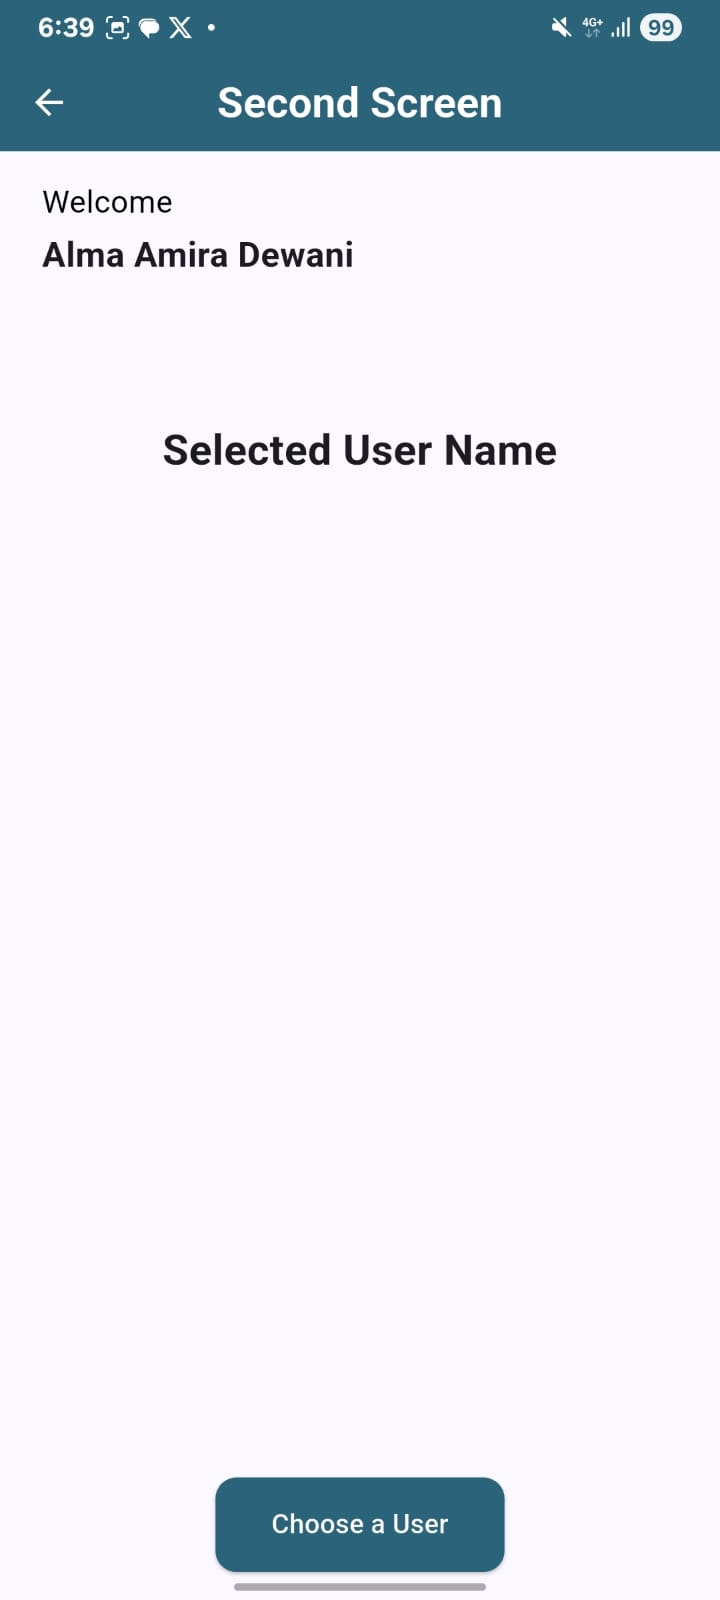
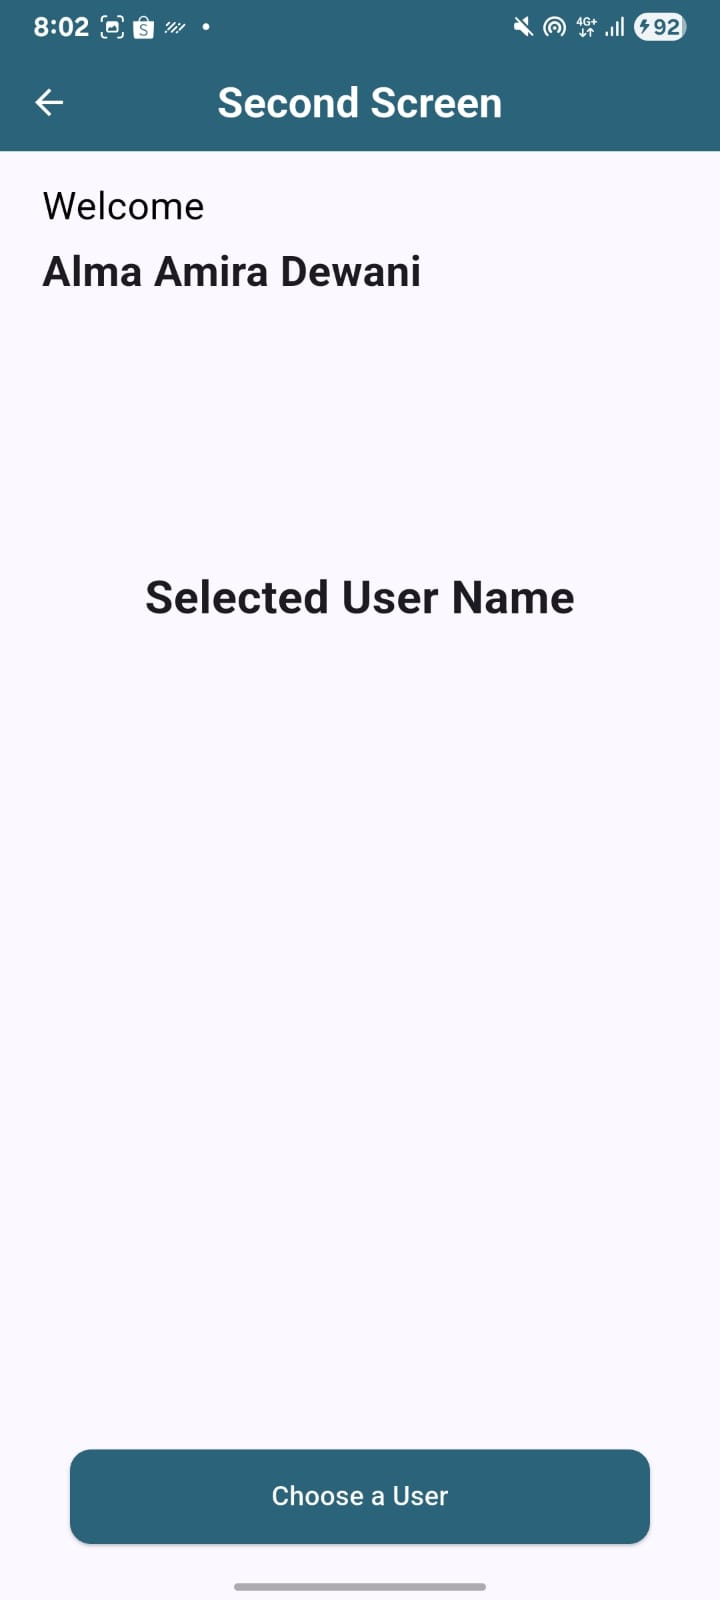
final

diff --git a/lib/screens/second_screen.dart b/lib/screens/second_screen.dart
@@ -28,15 +28,15 @@ class SecondScreen extends StatelessWidget {
           children: [
             const Text(
               'Welcome',
-              style: TextStyle(fontSize: 16, color: Colors.black),
+              style: TextStyle(fontSize: 20, color: Colors.black),
             ),
             const SizedBox(height: 4),
             Text(
               userProvider.name.isNotEmpty ? userProvider.name : 'User name',
-              style: const TextStyle(fontSize: 18, fontWeight: FontWeight.bold),
+              style: const TextStyle(fontSize: 22, fontWeight: FontWeight.bold),
             ),
             const SizedBox(
-              height: 80,
+              height: 150,
             ), // Space between welcome and selected user
 
             Center(
@@ -46,7 +46,7 @@ class SecondScreen extends StatelessWidget {
                     : 'Selected User Name',
                 textAlign: TextAlign.center,
                 style: const TextStyle(
-                  fontSize: 22,
+                  fontSize: 24,
                   fontWeight: FontWeight.bold,
                 ),
               ),
@@ -55,25 +55,35 @@ class SecondScreen extends StatelessWidget {
             const Spacer(),
 
             Center(
-              child: ElevatedButton(
-                onPressed: () {
-                  Navigator.push(
-                    context,
-                    MaterialPageRoute(builder: (_) => const ThirdScreen()),
-                  );
-                },
-                style: ElevatedButton.styleFrom(
-                  backgroundColor: const Color(0xFF2B637B),
-                  foregroundColor: Colors.white,
-                  padding: const EdgeInsets.symmetric(
-                    horizontal: 32,
-                    vertical: 16,
-                  ),
-                  shape: RoundedRectangleBorder(
-                    borderRadius: BorderRadius.circular(12),
+              child: Padding(
+                padding: const EdgeInsets.only(
+                  left: 16.0,
+                  right: 16.0,
+                  bottom: 16.0,
+                ),
+                child: SizedBox(
+                  width: double.infinity,
+                  child: ElevatedButton(
+                    onPressed: () {
+                      Navigator.push(
+                        context,
+                        MaterialPageRoute(builder: (_) => const ThirdScreen()),
+                      );
+                    },
+                    style: ElevatedButton.styleFrom(
+                      backgroundColor: const Color(0xFF2B637B),
+                      foregroundColor: Colors.white,
+                      padding: const EdgeInsets.symmetric(
+                        horizontal: 32,
+                        vertical: 16,
+                      ),
+                      shape: RoundedRectangleBorder(
+                        borderRadius: BorderRadius.circular(12),
+                      ),
+                    ),
+                    child: const Text('Choose a User'),
                   ),
                 ),
-                child: const Text('Choose a User'),
               ),
             ),
           ],

diff --git a/lib/screens/first_screen.dart b/lib/screens/first_screen.dart
@@ -94,7 +94,7 @@ class _FirstScreenState extends State<FirstScreen> {
         decoration: const BoxDecoration(
           image: DecorationImage(
             image: AssetImage('assets/images/background.png'),
-            fit: BoxFit.cover, // biar gambar penuh
+            fit: BoxFit.cover, // gambar penuh
           ),
         ),
         child: SafeArea(
@@ -105,16 +105,11 @@ class _FirstScreenState extends State<FirstScreen> {
               children: [
                 const CircleAvatar(
                   radius: 60,
-                  backgroundColor: Color.fromARGB(
-                    255,
-                    124,
-                    193,
-                    198,
-                  ), // Warna lingkaran
+                  backgroundColor: Color.fromARGB(255, 124, 193, 198),
                   child: Icon(
                     Icons.person_add_alt_1,
                     size: 50,
-                    color: Colors.white, // Warna ikon
+                    color: Colors.white,
                   ),
                 ),
 

diff --git a/README.md b/README.md
@@ -89,13 +89,13 @@ A simple Flutter application that demonstrates:
 git clone https://github.com/almamiraa/suitmedia-test.git
 ```
 
-### Install dependencies
+### 2. Install dependencies
 
 ```bash
 flutter pub get
 ```
 
-### Run the App
+### 3. Run the App
 
 ```bash
 flutter run
